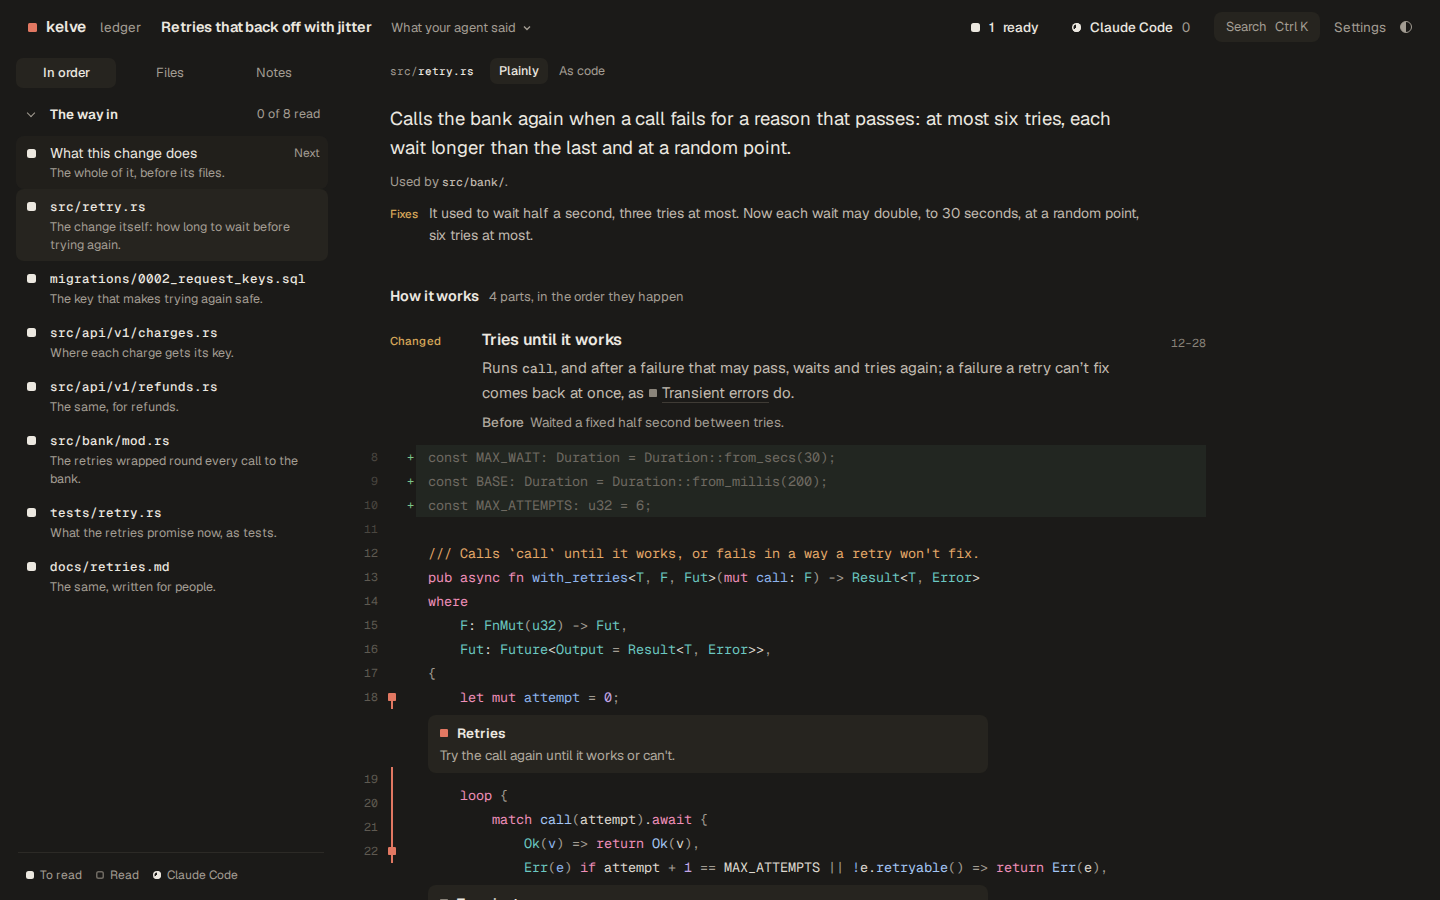
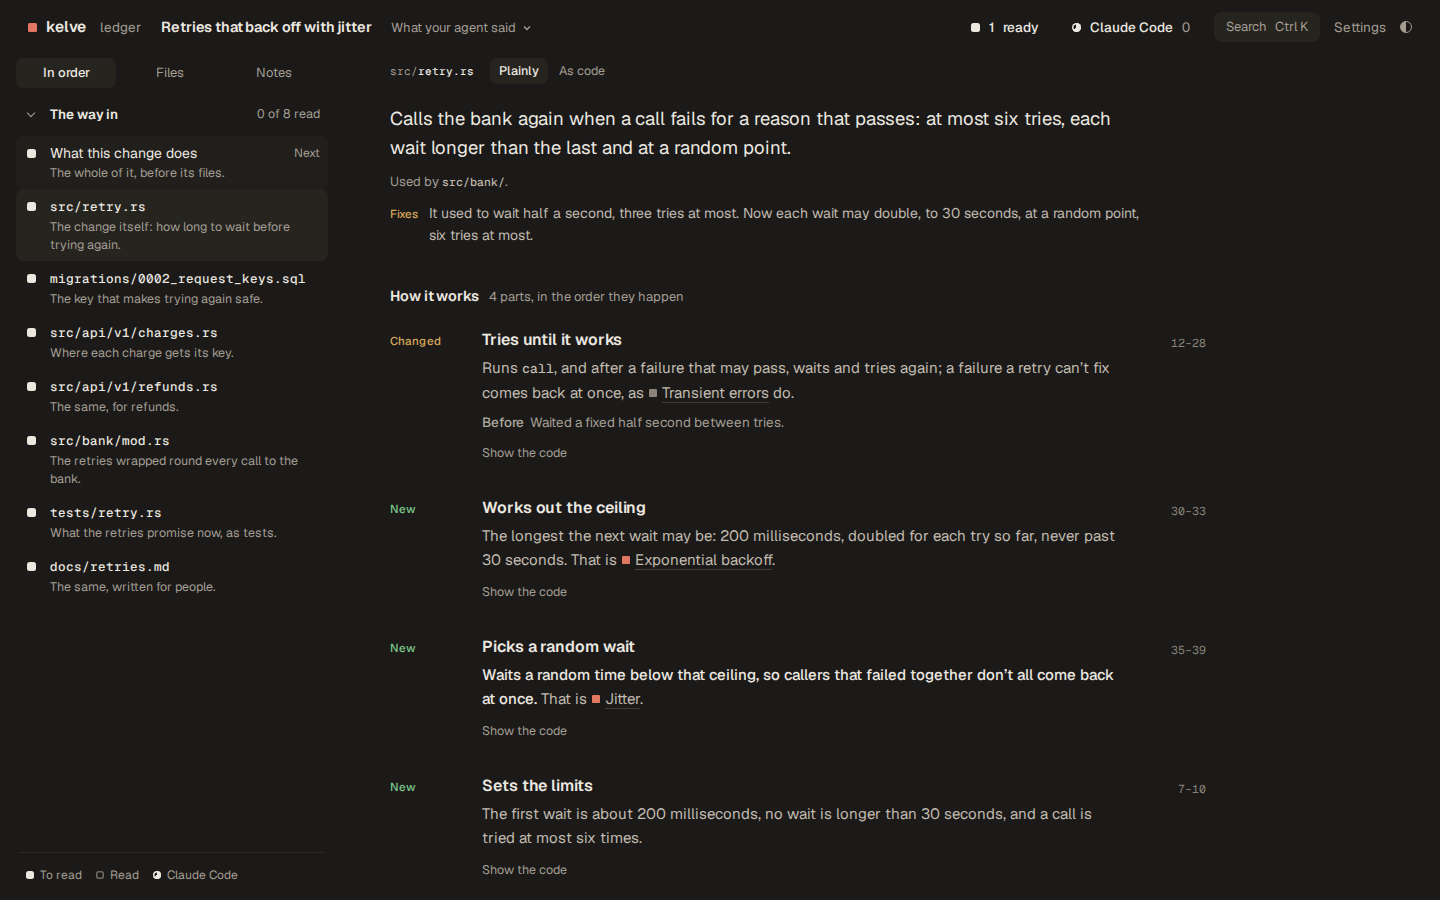
readme: a file read plainly with its code folded away, and no pictures for anything your agent opens or its doing the reading

diff --git a/README.md b/README.md
@@ -57,7 +57,7 @@ Your agent writes each page to the same rules, and kelve checks every part again
 
 <picture>
   <source media="(prefers-color-scheme: dark)" srcset=".github/assets/plainly-dark.png">
-  <img src=".github/assets/plainly-light.png" alt="A file read plainly: what it’s for, what it fixes, and each part by its goal, with what it did before and its code below.">
+  <img src=".github/assets/plainly-light.png" alt="A file read plainly: what it’s for, what it fixes, and each part by its goal, with what it did before and its code a click away.">
 </picture>
 
 [Read this file plainly in the example →](https://kelve.ai/demo/index.html#/example?f=src%2Fretry.rs&r=plainly)
@@ -65,11 +65,6 @@ Your agent writes each page to the same rules, and kelve checks every part again
 ## Anything your agent opens.
 
 Code or words: a repo, a thesis, your notes, one file, or just what your agent did. Ask in your own words, and it opens there in kelve, the same way each time: what it is first, then the rest in order.
-
-<picture>
-  <source media="(prefers-color-scheme: dark)" srcset=".github/assets/anything-dark.png">
-  <img src=".github/assets/anything-light.png" alt="A page of docs in kelve, with each idea it rests on marked beside the paragraph that uses it.">
-</picture>
 
 ## Your agent does the reading.
 
@@ -79,11 +74,6 @@ kelve has no model and no key of its own. It runs on your computer, beside your 
 - **On your computer.** kelve runs beside your agent. What you open goes to no one but it.
 - **Only what you’ll read.** It reads the way in first, and the rest when you ask. Its dial, at the top of every page, shows it working, and opens its list.
 - **Nothing to sign up for.** kelve works signed out. Sign in only to join the shared graph.
-
-<picture>
-  <source media="(prefers-color-scheme: dark)" srcset=".github/assets/agent-dark.png">
-  <img src=".github/assets/agent-light.png" alt="Your agent’s list beside the code: what it’s reading now, what’s next, and what’s ready for you.">
-</picture>
 
 [See your agent’s list in the example →](https://kelve.ai/demo/index.html#/example?f=src%2Fretry.rs&r=code&k=list&as=list-way)
 
